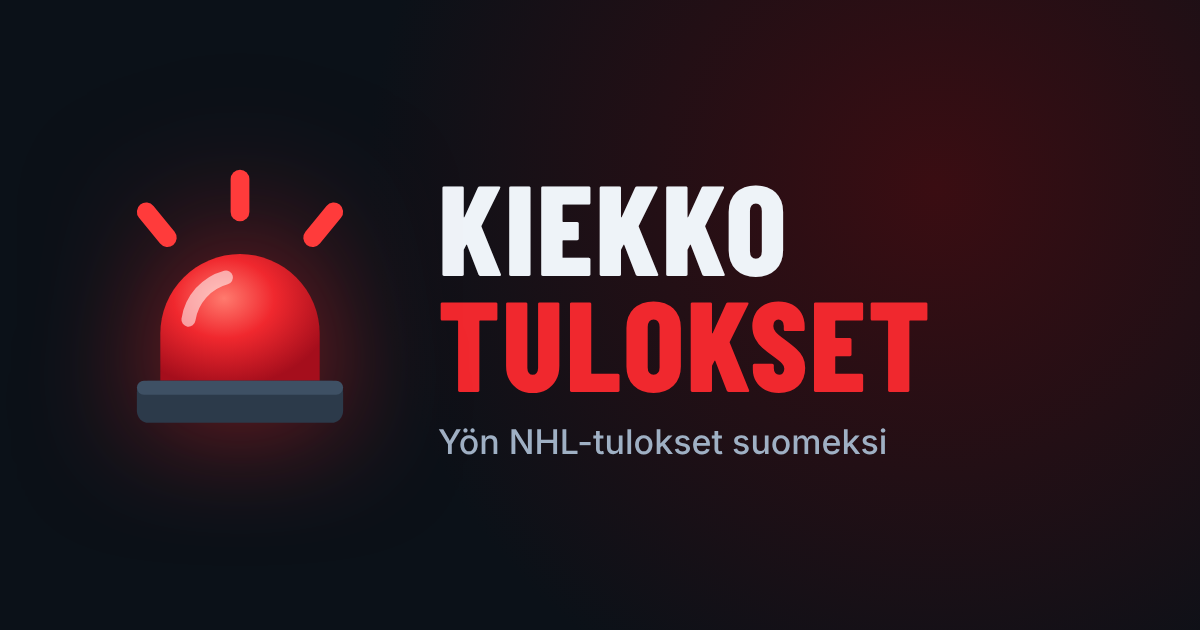
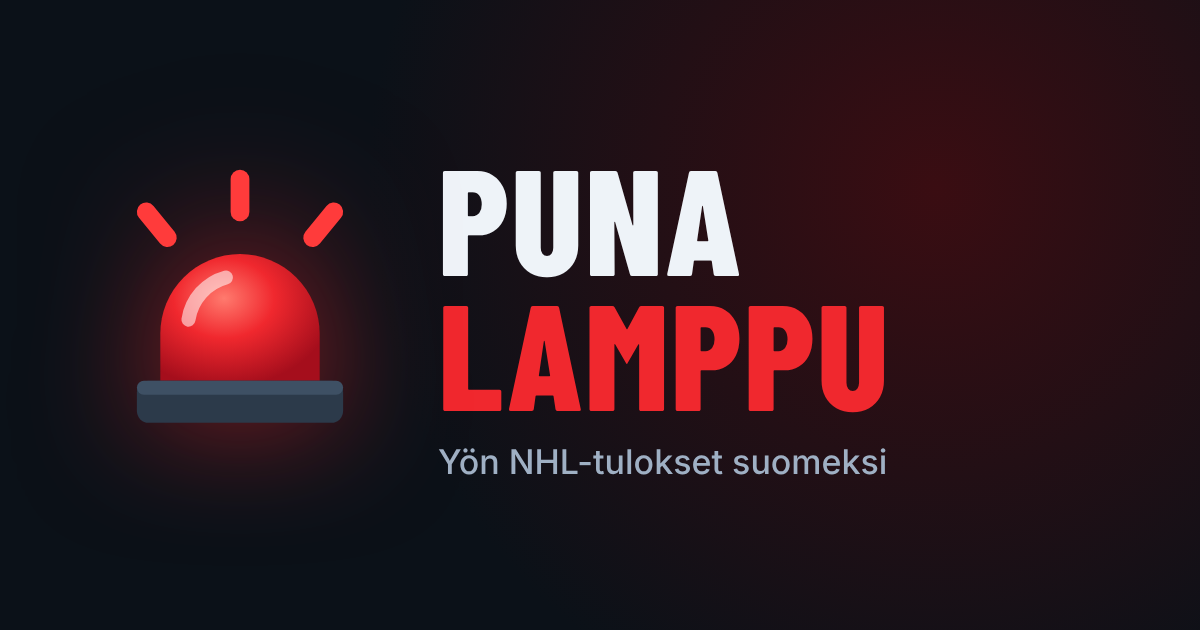
Nimeksi Punalamppu, osoitteeksi punalamppu.com
Claude-Session: https://claude.ai/code/session_013Cu7Byu1oTNdWCPfhhXGev

Changed region(s): [[0.37, 0.2714, 0.7708, 0.754]]

diff --git a/web/tietoa.html b/web/tietoa.html
@@ -1,7 +1,7 @@
 <!DOCTYPE html><html lang="fi"><head><meta charset="utf-8"><meta name="viewport" content="width=device-width, initial-scale=1">
 <title>Tietoa sivustosta | {{SITE}}</title><meta name="description" content="Tietoa {{SITE}}-sivustosta, tietolähteistä ja tekijänoikeuksista.">
 <link rel="canonical" href="{{BASE}}/tietoa.html"><link rel="stylesheet" href="/static.css"><link rel="icon" href="/favicon.svg" type="image/svg+xml"><link rel="apple-touch-icon" href="/apple-touch-icon.png"><meta name="theme-color" content="#0B1118"></head>
-<body><div class="wrap"><header><a class="brand" href="/" aria-label="Kiekkotulokset – etusivu"><img src="/logo-mark.svg" alt="" width="34" height="34"><span>KIEKKO<b>TULOKSET</b></span></a></header>
+<body><div class="wrap"><header><a class="brand" href="/" aria-label="Punalamppu – etusivu"><img src="/logo-mark.svg" alt="" width="34" height="34"><span>PUNA<b>LAMPPU</b></span></a></header>
 <nav class="crumbs"><a href="/">Etusivu</a> · <a href="/ottelut/">Ottelut</a> · <a href="/suomalaiset/">Suomalaiset</a></nav>
 <main>
 <h1>Tietoa sivustosta</h1>

diff --git a/web/tietosuoja.html b/web/tietosuoja.html
@@ -1,7 +1,7 @@
 <!DOCTYPE html><html lang="fi"><head><meta charset="utf-8"><meta name="viewport" content="width=device-width, initial-scale=1">
 <title>Tietosuojaseloste | {{SITE}}</title><meta name="description" content="{{SITE}}-sivuston tietosuojaseloste.">
 <link rel="canonical" href="{{BASE}}/tietosuoja.html"><link rel="stylesheet" href="/static.css"><link rel="icon" href="/favicon.svg" type="image/svg+xml"><link rel="apple-touch-icon" href="/apple-touch-icon.png"><meta name="theme-color" content="#0B1118"></head>
-<body><div class="wrap"><header><a class="brand" href="/" aria-label="Kiekkotulokset – etusivu"><img src="/logo-mark.svg" alt="" width="34" height="34"><span>KIEKKO<b>TULOKSET</b></span></a></header>
+<body><div class="wrap"><header><a class="brand" href="/" aria-label="Punalamppu – etusivu"><img src="/logo-mark.svg" alt="" width="34" height="34"><span>PUNA<b>LAMPPU</b></span></a></header>
 <nav class="crumbs"><a href="/">Etusivu</a> · <a href="/ottelut/">Ottelut</a> · <a href="/suomalaiset/">Suomalaiset</a></nav>
 <main>
 <h1>Tietosuojaseloste</h1>

diff --git a/web/404.html b/web/404.html
@@ -1,4 +1,4 @@
 <!DOCTYPE html><html lang="fi"><head><meta charset="utf-8"><meta name="viewport" content="width=device-width, initial-scale=1">
 <title>Sivua ei löytynyt | {{SITE}}</title><meta name="robots" content="noindex"><link rel="stylesheet" href="/static.css"><link rel="icon" href="/favicon.svg" type="image/svg+xml"><link rel="apple-touch-icon" href="/apple-touch-icon.png"><meta name="theme-color" content="#0B1118"></head>
-<body><div class="wrap"><header><a class="brand" href="/" aria-label="Kiekkotulokset – etusivu"><img src="/logo-mark.svg" alt="" width="34" height="34"><span>KIEKKO<b>TULOKSET</b></span></a></header><main><h1>Sivua ei löytynyt</h1>
+<body><div class="wrap"><header><a class="brand" href="/" aria-label="Punalamppu – etusivu"><img src="/logo-mark.svg" alt="" width="34" height="34"><span>PUNA<b>LAMPPU</b></span></a></header><main><h1>Sivua ei löytynyt</h1>
 <p><a href="/">Etusivulle</a> · <a href="/ottelut/">Ottelut</a> · <a href="/suomalaiset/">Suomalaiset</a></p></main>{{FOOTER}}</div></body></html>

diff --git a/web/index.html b/web/index.html
@@ -158,7 +158,7 @@ tr.fav td{background:rgba(255,210,122,.09)}
 <div class="wrap">
   <header>
     <div>
-      <a class="brand" href="/" aria-label="Kiekkotulokset – etusivu"><img src="/logo-mark.svg" alt="" width="34" height="34"><span>KIEKKO<b>TULOKSET</b></span></a>
+      <a class="brand" href="/" aria-label="Punalamppu – etusivu"><img src="/logo-mark.svg" alt="" width="34" height="34"><span>PUNA<b>LAMPPU</b></span></a>
       <h1 class="sub">{{TAGLINE}}</h1>
     </div>
     <div class="upd" id="upd"></div>

diff --git a/scripts/build.py b/scripts/build.py
@@ -1,5 +1,5 @@
 #!/usr/bin/env python3
-"""Kiekkotulokset – hakee NHL:n julkiset tulos- ja tilastotiedot ja rakentaa staattisen sivuston kansioon _site/.
+"""Punalamppu – hakee NHL:n julkiset tulos- ja tilastotiedot ja rakentaa staattisen sivuston kansioon _site/.
 
 Ajetaan GitHub Actionsissa (.github/workflows/update.yml). Käyttää vain Pythonin vakiokirjastoa.
 
@@ -530,7 +530,7 @@ def page(title, desc, path, body, jsonld=None):
 <meta property="og:type" content="website"><meta property="og:url" content="{base}{path}"><meta property="og:locale" content="fi_FI">
 <meta property="og:image" content="{base}/og.png"><meta name="twitter:card" content="summary_large_image">
 <link rel="icon" href="/favicon.svg" type="image/svg+xml"><link rel="apple-touch-icon" href="/apple-touch-icon.png"><meta name="theme-color" content="#0B1118"><link rel="stylesheet" href="/static.css">{ld}</head>
-<body><div class="wrap"><header><a class="brand" href="/" aria-label="Kiekkotulokset – etusivu"><img src="/logo-mark.svg" alt="" width="34" height="34"><span>KIEKKO<b>TULOKSET</b></span></a></header>
+<body><div class="wrap"><header><a class="brand" href="/" aria-label="Punalamppu – etusivu"><img src="/logo-mark.svg" alt="" width="34" height="34"><span>PUNA<b>LAMPPU</b></span></a></header>
 <nav class="crumbs"><a href="/">Tulokset</a> · <a href="/otteluohjelma/">Otteluohjelma</a> · <a href="/suomalaiset/">Suomalaiset</a> · <a href="/pisteporssi/">Pistepörssi</a> · <a href="/sarjataulukko/">Sarjataulukko</a> · <a href="/ottelut/">Arkisto</a></nav>
 <main>{body}</main>{footer()}</div></body></html>"""
 

diff --git a/README.md b/README.md
@@ -1,4 +1,4 @@
-# Kiekkotulokset
+# Punalamppu
 
 Suomenkielinen NHL-sivusto: yön tulokset, maalit, maalikoostelinkit, tulevat ottelut, sarjataulukko, pistepörssi ja kaikki suomalaiset.
 Sivusto päivittyy itsestään GitHub Actionsilla: otteluiden aikaan (n. klo 0–9 Suomen aikaa) 10 minuutin välein, muulloin kerran tunnissa.
